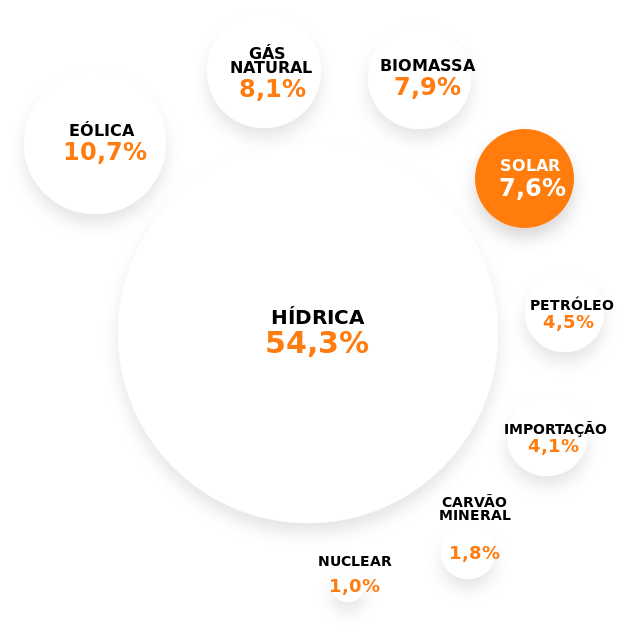
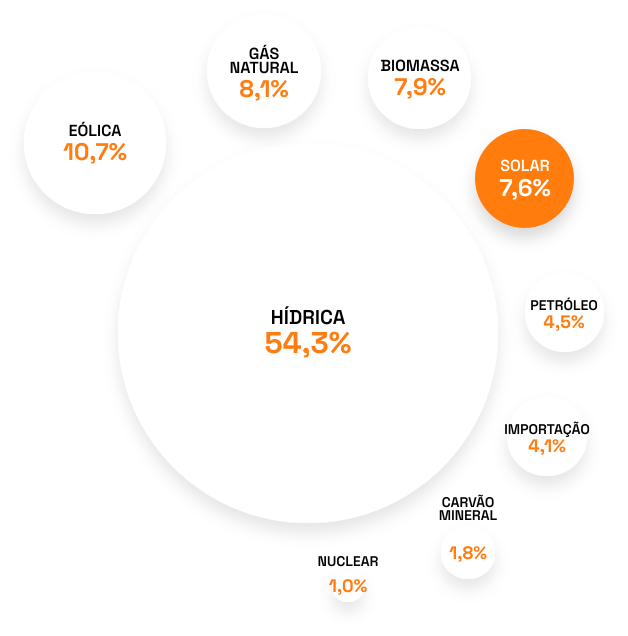
Version 1.4.1

diff --git a/src/components/Section7/index.jsx b/src/components/Section7/index.jsx
@@ -1,7 +1,7 @@
 import React from 'react'
 import './section7.css'
 
-import Graph from '../../assets/SVG/gráfico-desktop.svg'
+import Graph from '../../assets/SVG/gráfico-desktop.png'
 import Arrow from '../../assets/SVG/seta.svg'
 
 function Section7() {

diff --git a/src/components/Section6/index.jsx b/src/components/Section6/index.jsx
@@ -1,7 +1,7 @@
 import React from 'react'
 import './section6.css'
 
-import Graph from '../../assets/SVG/gráfico-pizza-desktop.svg'
+import Graph from '../../assets/SVG/gráfico-pizza-desktop.png'
 
 function Section6() {
   return (
